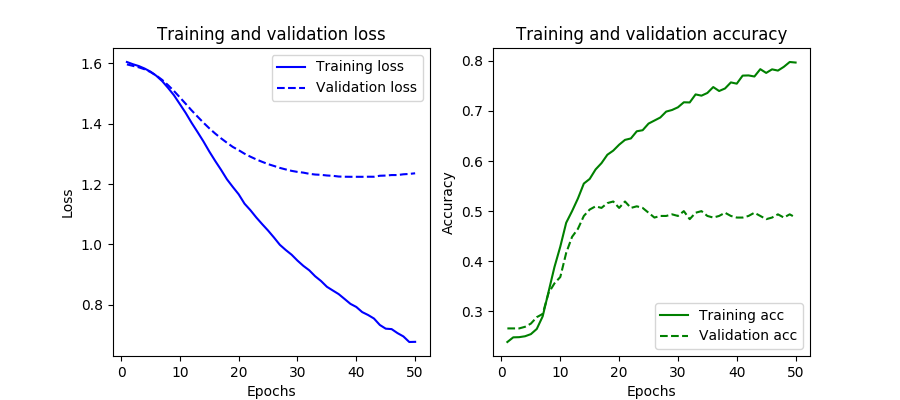
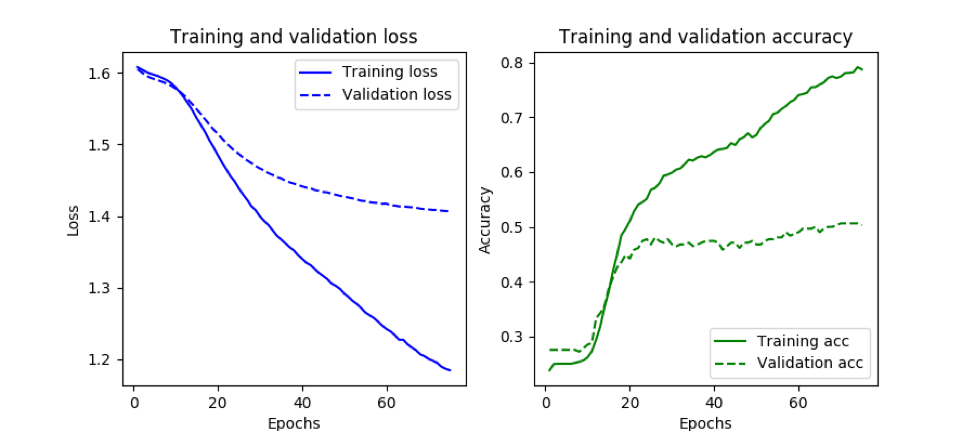
(P1) Done testing

diff --git a/main.py b/main.py
@@ -8,42 +8,52 @@ from tensorflow.keras import layers, losses
 from utils import *
 
 #################### LOAD DATA
+
 ratings_df = pd.read_csv(DATASET_PATH)
 ratings = ratings_df['RATING'].unique()
 
 #################### DATA ANALYSIS & DATA CLEANING
-# ratings_counts = ratings_df['RATING'].value_counts(ascending=True)
-# plot_class_balance(ratings_counts, title="Balance of ratings", filename="Balance_of_classes")
 
-ratings_df_preprocess = ratings_df.drop_duplicates(ignore_index=True)  # Drop duplicate rows keeping the first appearance and reindexing
+# Plot balance of classes (Original dataset)
+ratings_counts = ratings_df['RATING'].value_counts(ascending=True)
+plot_class_balance(ratings_counts, title="Balance of ratings", filename="Balance_of_classes")
 
-# ratings_counts = ratings_df_preprocess['RATING'].value_counts()
-# plot_class_balance(ratings_counts, title="Balance of ratings (without duplicates)", filename="Balance_of_classes_no_dupl")
+# Drop duplicate rows keeping the first appearance and reindexing
+ratings_df_preprocess = ratings_df.drop_duplicates(ignore_index=True)
 
-# print(ratings_df_preprocess.isnull().sum())  # Look for null values
-ratings_df_preprocess = ratings_df_preprocess.dropna()  # Drop all the rows in which any null value is present
+# Plot balance of classes (After removing duplicates)
+ratings_counts = ratings_df_preprocess['RATING'].value_counts()
+plot_class_balance(ratings_counts, title="Balance of ratings (without duplicates)", filename="Balance_of_classes_no_dupl")
 
-ratings_df_preprocess['TEXT'] = ratings_df_preprocess['TEXT'].apply(text_preprocessing)  # Apply preprocessing to every review
+# Look for null values
+print(ratings_df_preprocess.isnull().sum())
+# Drop all the rows in which any null value is present
+ratings_df_preprocess = ratings_df_preprocess.dropna()
 
-# print(ratings_df_preprocess[ratings_df_preprocess['TEXT'] == ""])  # Look for empty strings
-ratings_df_preprocess['TEXT'].replace("", np.nan, inplace=True)  # Replace empty str by NaN so we can drop them
-# print(ratings_df_preprocess.isnull().sum())
-ratings_df_preprocess = ratings_df_preprocess.dropna()  # Drop all the rows in which any null value is present
+# Apply preprocessing to every review
+ratings_df_preprocess['TEXT'] = ratings_df_preprocess['TEXT'].apply(text_preprocessing)
 
-# ratings_counts = ratings_df_preprocess['RATING'].value_counts()
-# plot_class_balance(ratings_counts, title="Balance of ratings (after cleaning)", filename="Balance_of_classes_aft_clean")
+# Look for empty strings
+print(ratings_df_preprocess[ratings_df_preprocess['TEXT'] == ""])
+# Replace empty str by NaN so we can drop them
+ratings_df_preprocess['TEXT'].replace("", np.nan, inplace=True)
+ratings_df_preprocess = ratings_df_preprocess.dropna()
 
-# most_common_words_per_rating = ratings_df_preprocess.groupby('RATING')['TEXT'].apply(lambda review: Counter(" ".join(review).split()).most_common(5))
-# most_common_words_per_rating.to_csv(f"./{OUTPUT_PATH}/most_common_words_per_rating.txt")
+# Plot balance of classes (After cleaning the dataset)
+ratings_counts = ratings_df_preprocess['RATING'].value_counts()
+plot_class_balance(ratings_counts, title="Balance of ratings (after cleaning)", filename="Balance_of_classes_aft_clean")
+
+# Show the 5 most common words per rating
+most_common_words_per_rating = ratings_df_preprocess.groupby('RATING')['TEXT'].apply(lambda review: Counter(" ".join(review).split()).most_common(5))
+most_common_words_per_rating.to_csv(f"./{OUTPUT_PATH}/most_common_words_per_rating.txt")
 
 #################### PREPARE THE DATASET
+
 ratings_df_preprocess['RATING'] = ratings_df_preprocess['RATING'] -1
 
+# Create training, validation and testing datasets
 train_df, test_df = train_test_split(ratings_df_preprocess, test_size=0.1)
-print(test_df['RATING'].value_counts())
 train_df, val_df = train_test_split(train_df, test_size=0.1)
-print(train_df['RATING'].value_counts())
-print(val_df['RATING'].value_counts())
 
 target = train_df.pop('RATING')
 raw_train_ds = tf.data.Dataset.from_tensor_slices((train_df.values, target.values)).batch(32)
@@ -61,8 +71,7 @@ def vectorize_text(review, rating):
     return vectorize_layer(review), rating
 
 # Analyze the dataset, determine the frequency of individual string values, and create a 'vocabulary' from them
-vectorize_layer.adapt(raw_train_ds.map(lambda review, _: review))
-print(vectorize_layer.get_vocabulary())
+vectorize_layer.adapt(ratings_df_preprocess['TEXT'].to_numpy())
 
 # Apply the TextVectorization layer to each dataset
 train_ds = raw_train_ds.map(vectorize_text)
@@ -77,13 +86,9 @@ model = tf.keras.Sequential([
                      output_dim=EMBEDDING_DIM,
                      input_length=MAX_REVIEW_LENGTH),  # Length of input sequences, when it is constant
     layers.Dropout(0.2),
-
-    # For each feature dimension, this layer takes average among all time steps
     layers.GlobalAveragePooling1D(),
     layers.Dropout(0.2),
-
-    # Fully connected layer
-    layers.Dense(units=ratings.size)
+    layers.Dense(ratings.size, activation="softmax")
 ])
 
 model.compile(

diff --git a/utils.py b/utils.py
@@ -11,10 +11,10 @@ from nltk.stem import WordNetLemmatizer
 #################### PARAMETERS
 DATASET_PATH = "./Resources/ratings.csv"
 OUTPUT_PATH = "./Output"
-VOCABULARY_SIZE = 5000
+VOCABULARY_SIZE = 5200
 MAX_REVIEW_LENGTH = 100
 EMBEDDING_DIM = 32
-NUM_EPOCHS = 50
+NUM_EPOCHS = 75
 ####################
 
 def plot_class_balance(data, title, filename):
